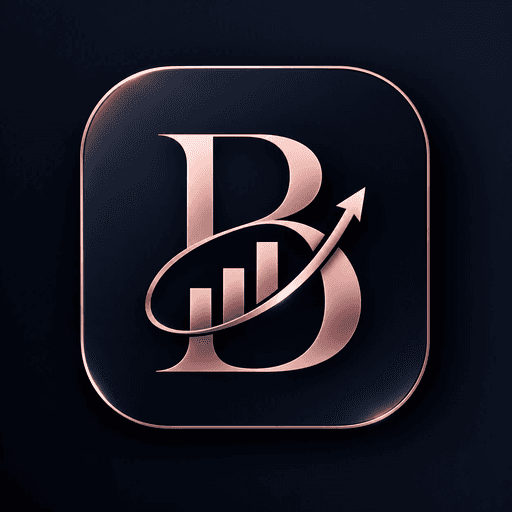
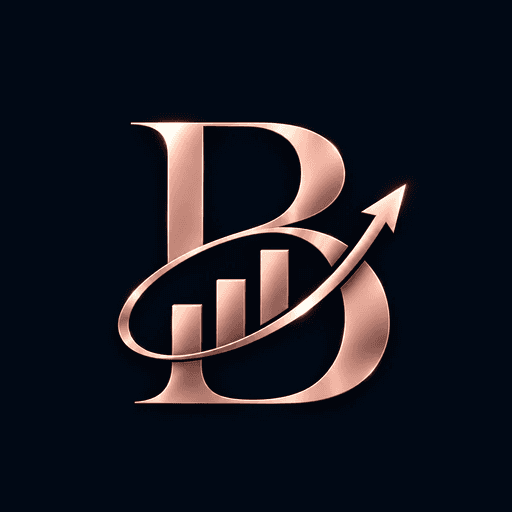
fix(web): sticky de volta no celular e ícone novo do app
O overflow-x: hidden no html transformava o body em container de rolagem
e quebrava os position: sticky (totais de Lançamentos e barra lateral).
Com clip, nada vaza para os lados e o sticky volta a funcionar.

- ícone novo (B sem moldura) e ícones gerados de novo
- precache sem ícones duplicados (includeManifestIcons: false)
- checa nova versão também ao voltar do segundo plano
- vercel.json: rewrite SPA não captura /assets/
- README: limitação do zoom por pinça no iPhone

diff --git a/webApp/src/shared/components/avisoNovaVersao/index.tsx b/webApp/src/shared/components/avisoNovaVersao/index.tsx
@@ -1,3 +1,4 @@
+import { useEffect, useRef } from 'react';
 import { useRegisterSW } from 'virtual:pwa-register/react';
 import { Container } from './styles';
 
@@ -6,21 +7,47 @@ const INTERVALO_VERIFICACAO = 60 * 60 * 1000;
 
 /**
  * Aviso de nova versão do PWA (registerType 'prompt'): a nova versão só assume quando a usuária
- * toca em "Atualizar"; "Agora não" esconde o aviso até a próxima verificação.
+ * toca em "Atualizar"; "Agora não" esconde o aviso até o próximo carregamento do app.
+ * Verifica a cada hora e ao voltar do segundo plano (no iPhone o intervalo fica pausado em
+ * segundo plano, então a checagem ao voltar é a que garante a atualização).
  */
 export const AvisoNovaVersao = () => {
+  // Guarda o que foi registrado em onRegisteredSW para limpar se o componente desmontar.
+  const limparVerificacao = useRef<(() => void) | null>(null);
+
   const {
     needRefresh: [precisaAtualizar, setPrecisaAtualizar],
     updateServiceWorker,
   } = useRegisterSW({
     onRegisteredSW(_url, registro) {
       if (!registro) return;
-      setInterval(() => {
+      limparVerificacao.current?.();
+
+      const verificar = () => {
         if (!navigator.onLine) return;
         registro.update().catch(() => undefined);
-      }, INTERVALO_VERIFICACAO);
+      };
+      const aoMudarVisibilidade = () => {
+        if (document.visibilityState === 'visible') verificar();
+      };
+
+      const intervalo = window.setInterval(verificar, INTERVALO_VERIFICACAO);
+      document.addEventListener('visibilitychange', aoMudarVisibilidade);
+
+      limparVerificacao.current = () => {
+        window.clearInterval(intervalo);
+        document.removeEventListener('visibilitychange', aoMudarVisibilidade);
+      };
     },
   });
+
+  useEffect(
+    () => () => {
+      limparVerificacao.current?.();
+      limparVerificacao.current = null;
+    },
+    [],
+  );
 
   if (!precisaAtualizar) return null;
 

diff --git a/webApp/src/shared/components/global/index.tsx b/webApp/src/shared/components/global/index.tsx
@@ -220,14 +220,15 @@ const GlobalStyles = () => (
         '*, *::before, *::after': { boxSizing: 'border-box' },
         '*': { margin: 0 },
         // Celular "fixo": sem zoom por duplo toque, sem rebote/arrasto da página e sem rolagem horizontal.
-        // A rolagem vertical do conteúdo continua normal.
+        // A rolagem vertical do conteúdo continua normal. overflowX 'clip' (e não 'hidden'): 'hidden'
+        // em html + body transforma o body em container de rolagem e quebra o position: sticky.
         html: {
           background: c.papel,
           colorScheme: 'light',
           WebkitTextSizeAdjust: '100%',
           textSizeAdjust: '100%',
           overscrollBehavior: 'none',
-          overflowX: 'hidden',
+          overflowX: 'clip',
           touchAction: 'manipulation',
           WebkitTapHighlightColor: 'transparent',
         },
@@ -238,7 +239,7 @@ const GlobalStyles = () => (
           fontSize: '15.5px',
           lineHeight: 1.5,
           WebkitFontSmoothing: 'antialiased',
-          overflowX: 'hidden',
+          overflowX: 'clip',
           overscrollBehavior: 'none',
           touchAction: 'manipulation',
         },

diff --git a/webApp/vite.config.ts b/webApp/vite.config.ts
@@ -19,7 +19,8 @@ export default defineConfig(({ mode }) => {
       VitePWA({
         // 'prompt': a nova versão só assume quando a usuária toca em "Atualizar" (avisoNovaVersao).
         registerType: 'prompt',
-        includeAssets: ['favicon.ico', 'apple-touch-icon-180x180.png'],
+        // Ícones e favicon já entram pelo globPatterns do workbox; incluí-los de novo duplica o precache.
+        includeManifestIcons: false,
         manifest: {
           name: 'Meu Salário',
           short_name: 'Meu Salário',
